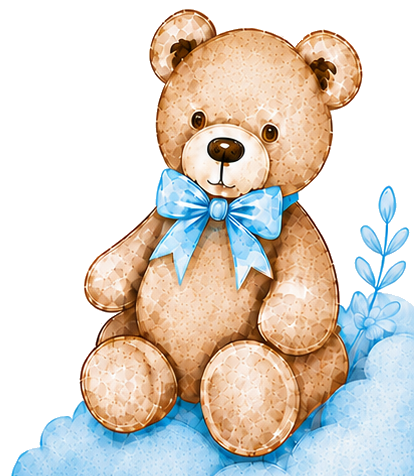
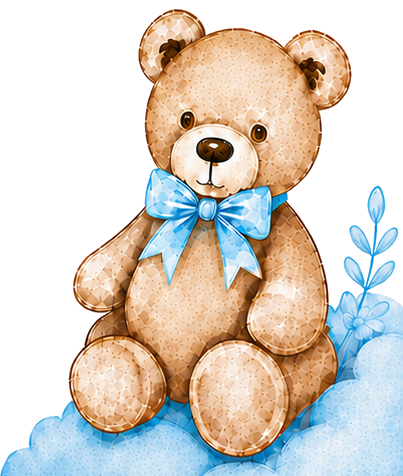
Added new images

Changed region(s): [[0.0, 0.0, 0.9826, 1.0], [0.3275, 0.9706, 0.3573, 1.0]]

diff --git a/server.js b/server.js
@@ -70,7 +70,7 @@ const LISTA_PRESENTE_1 = ['Fralda P', 'Fralda M', 'Fralda G'];
 const LISTA_PRESENTE_2 = [
     'pomada para assadura', 'lenço umedecido', 'sabonete líquido para bebê', 
     'manta para bebê unissex', 'kit de escovinha e pente para bebê', 'kit cueiro', 
-    'kit de perfume para bebê', 'kit de fraldas de banho', 'toalhinha de banho', 
+    'kit de perfume para bebê', 'kit de fraldas de banho', 'kit de fraldas de ombro', 'toalhinha de banho', 
     'shampoo para bebê', 'naninha', 'kit manicure para bebê', 
     'kit banho (shampoo e sabonete)', 'mimo', 'termômetro para bebê', 
     'kit perfume mamãe e bebê'